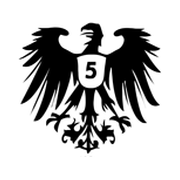
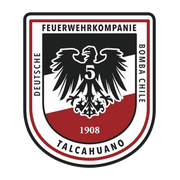
Ícono del sitio: el escudo de la Quinta en vez del águila
favicon.ico (16, 32 y 48 px), icono-192.png para Google y icono-180.png para el
celular salen ahora del escudo. El ícono del águila queda en herramientas/recursos.

Claude-Session: https://claude.ai/code/session_01Hu7YEUVhKE7yvRYdWmftyZ

diff --git a/contacto/index.html b/contacto/index.html
@@ -19,7 +19,8 @@
 <meta name="twitter:card" content="summary_large_image">
 <script type="application/ld+json">{"@context":"https://schema.org","@id":"https://funfte.cl/#organizacion","@type":"FireStation","address":{"@type":"PostalAddress","addressCountry":"CL","addressLocality":"Talcahuano","addressRegion":"Región del Biobío","streetAddress":"Río Maule 5383, Villa Independencia"},"alternateName":["Bomba Chile","Fünfte Deutsche Feuerwehrkompanie Talcahuano"],"description":"Sitio oficial de la Quinta Compañía de Bomberos «Bomba Chile» de Talcahuano, fundada el 29 de enero de 1908. Especialidad en agua y rescate integral.","email":"correo@funfte.cl","foundingDate":"1908-01-29","geo":{"@type":"GeoCoordinates","latitude":-36.763267,"longitude":-73.092603},"image":"https://funfte.cl/assets/img/2011-12-DSC0103-1030x688.jpg","logo":"https://funfte.cl/assets/img/escudo-quinta.png","memberOf":{"@type":"Organization","name":"Confederación de Compañías Chileno-Alemanas de Bomberos","url":"https://funfte.cl/confederacion/"},"name":"Quinta Compañía de Bomberos de Talcahuano","parentOrganization":{"@type":"Organization","name":"Cuerpo de Bomberos de Talcahuano","url":"https://cbt.cl"},"sameAs":["https://www.instagram.com/funftetalcahuano/","https://www.facebook.com/funfte"],"url":"https://funfte.cl/"}</script>
 <script type="application/ld+json">{"@context":"https://schema.org","@type":"BreadcrumbList","itemListElement":[{"@type":"ListItem","item":"https://funfte.cl/","name":"Inicio","position":1},{"@type":"ListItem","item":"https://funfte.cl/contacto/","name":"Contacto","position":2}]}</script>
-<link rel="icon" href="../favicon.ico?v=0360143b">
+<link rel="icon" href="../favicon.ico?v=ced1385c">
+<link rel="icon" type="image/png" sizes="192x192" href="../assets/img/icono-192.png">
 <link rel="apple-touch-icon" href="../assets/img/icono-180.png">
 <link rel="stylesheet" href="../assets/css/estilos.css?v=2dd51635">
 <script src="../assets/js/menu.js?v=33dc8f27" defer></script>

diff --git a/index.html b/index.html
@@ -19,7 +19,8 @@
 <meta name="twitter:card" content="summary_large_image">
 <script type="application/ld+json">{"@context":"https://schema.org","@id":"https://funfte.cl/#organizacion","@type":"FireStation","address":{"@type":"PostalAddress","addressCountry":"CL","addressLocality":"Talcahuano","addressRegion":"Región del Biobío","streetAddress":"Río Maule 5383, Villa Independencia"},"alternateName":["Bomba Chile","Fünfte Deutsche Feuerwehrkompanie Talcahuano"],"description":"Sitio oficial de la Quinta Compañía de Bomberos «Bomba Chile» de Talcahuano, fundada el 29 de enero de 1908. Especialidad en agua y rescate integral.","email":"correo@funfte.cl","foundingDate":"1908-01-29","geo":{"@type":"GeoCoordinates","latitude":-36.763267,"longitude":-73.092603},"image":"https://funfte.cl/assets/img/2011-12-DSC0103-1030x688.jpg","logo":"https://funfte.cl/assets/img/escudo-quinta.png","memberOf":{"@type":"Organization","name":"Confederación de Compañías Chileno-Alemanas de Bomberos","url":"https://funfte.cl/confederacion/"},"name":"Quinta Compañía de Bomberos de Talcahuano","parentOrganization":{"@type":"Organization","name":"Cuerpo de Bomberos de Talcahuano","url":"https://cbt.cl"},"sameAs":["https://www.instagram.com/funftetalcahuano/","https://www.facebook.com/funfte"],"url":"https://funfte.cl/"}</script>
 <script type="application/ld+json">{"@context":"https://schema.org","@type":"WebSite","inLanguage":"es-CL","name":"Quinta Compañía de Bomberos de Talcahuano","publisher":{"@id":"https://funfte.cl/#organizacion"},"url":"https://funfte.cl/"}</script>
-<link rel="icon" href="favicon.ico?v=0360143b">
+<link rel="icon" href="favicon.ico?v=ced1385c">
+<link rel="icon" type="image/png" sizes="192x192" href="assets/img/icono-192.png">
 <link rel="apple-touch-icon" href="assets/img/icono-180.png">
 <link rel="stylesheet" href="assets/css/estilos.css?v=2dd51635">
 <script src="assets/js/menu.js?v=33dc8f27" defer></script>

diff --git a/material-mayor/usines-beduwe-1911/index.html b/material-mayor/usines-beduwe-1911/index.html
@@ -18,7 +18,8 @@
 <meta property="og:image:alt" content="Bomba a vapor Usines Beduwé «Bomba Chile», 1911 | Quinta Compañía de Bomberos de Talcahuano">
 <meta name="twitter:card" content="summary_large_image">
 <script type="application/ld+json">{"@context":"https://schema.org","@type":"BreadcrumbList","itemListElement":[{"@type":"ListItem","item":"https://funfte.cl/","name":"Inicio","position":1},{"@type":"ListItem","item":"https://funfte.cl/la-quinta/","name":"La Quinta","position":2},{"@type":"ListItem","item":"https://funfte.cl/material-mayor/","name":"Material Mayor","position":3},{"@type":"ListItem","item":"https://funfte.cl/material-mayor/usines-beduwe-1911/","name":"Bomba a vapor Usines Beduwé «Bomba Chile», 1911","position":4}]}</script>
-<link rel="icon" href="../../favicon.ico?v=0360143b">
+<link rel="icon" href="../../favicon.ico?v=ced1385c">
+<link rel="icon" type="image/png" sizes="192x192" href="../../assets/img/icono-192.png">
 <link rel="apple-touch-icon" href="../../assets/img/icono-180.png">
 <link rel="stylesheet" href="../../assets/css/estilos.css?v=2dd51635">
 <script src="../../assets/js/menu.js?v=33dc8f27" defer></script>

diff --git a/material-mayor/renault-camiva-b-110-1994/index.html b/material-mayor/renault-camiva-b-110-1994/index.html
@@ -18,7 +18,8 @@
 <meta property="og:image:alt" content="Renault Camiva B-110 «Lustrín», 1994 | Quinta Compañía de Bomberos de Talcahuano">
 <meta name="twitter:card" content="summary_large_image">
 <script type="application/ld+json">{"@context":"https://schema.org","@type":"BreadcrumbList","itemListElement":[{"@type":"ListItem","item":"https://funfte.cl/","name":"Inicio","position":1},{"@type":"ListItem","item":"https://funfte.cl/la-quinta/","name":"La Quinta","position":2},{"@type":"ListItem","item":"https://funfte.cl/material-mayor/","name":"Material Mayor","position":3},{"@type":"ListItem","item":"https://funfte.cl/material-mayor/renault-camiva-b-110-1994/","name":"Renault Camiva B-110 «Lustrín», 1994","position":4}]}</script>
-<link rel="icon" href="../../favicon.ico?v=0360143b">
+<link rel="icon" href="../../favicon.ico?v=ced1385c">
+<link rel="icon" type="image/png" sizes="192x192" href="../../assets/img/icono-192.png">
 <link rel="apple-touch-icon" href="../../assets/img/icono-180.png">
 <link rel="stylesheet" href="../../assets/css/estilos.css?v=2dd51635">
 <script src="../../assets/js/menu.js?v=33dc8f27" defer></script>

diff --git a/material-mayor/renault-camiva-s-150-1999/index.html b/material-mayor/renault-camiva-s-150-1999/index.html
@@ -18,7 +18,8 @@
 <meta property="og:image:alt" content="Renault Camiva S-150 «El Guayo», 1999 | Quinta Compañía de Bomberos de Talcahuano">
 <meta name="twitter:card" content="summary_large_image">
 <script type="application/ld+json">{"@context":"https://schema.org","@type":"BreadcrumbList","itemListElement":[{"@type":"ListItem","item":"https://funfte.cl/","name":"Inicio","position":1},{"@type":"ListItem","item":"https://funfte.cl/la-quinta/","name":"La Quinta","position":2},{"@type":"ListItem","item":"https://funfte.cl/material-mayor/","name":"Material Mayor","position":3},{"@type":"ListItem","item":"https://funfte.cl/material-mayor/renault-camiva-s-150-1999/","name":"Renault Camiva S-150 «El Guayo», 1999","position":4}]}</script>
-<link rel="icon" href="../../favicon.ico?v=0360143b">
+<link rel="icon" href="../../favicon.ico?v=ced1385c">
+<link rel="icon" type="image/png" sizes="192x192" href="../../assets/img/icono-192.png">
 <link rel="apple-touch-icon" href="../../assets/img/icono-180.png">
 <link rel="stylesheet" href="../../assets/css/estilos.css?v=2dd51635">
 <script src="../../assets/js/menu.js?v=33dc8f27" defer></script>

diff --git a/material-mayor/magirus-deutz-1954/index.html b/material-mayor/magirus-deutz-1954/index.html
@@ -18,7 +18,8 @@
 <meta property="og:image:alt" content="Magirus Deutz con escalera mecánica, 1954 | Quinta Compañía de Bomberos de Talcahuano">
 <meta name="twitter:card" content="summary_large_image">
 <script type="application/ld+json">{"@context":"https://schema.org","@type":"BreadcrumbList","itemListElement":[{"@type":"ListItem","item":"https://funfte.cl/","name":"Inicio","position":1},{"@type":"ListItem","item":"https://funfte.cl/la-quinta/","name":"La Quinta","position":2},{"@type":"ListItem","item":"https://funfte.cl/material-mayor/","name":"Material Mayor","position":3},{"@type":"ListItem","item":"https://funfte.cl/material-mayor/magirus-deutz-1954/","name":"Magirus Deutz con escalera mecánica, 1954","position":4}]}</script>
-<link rel="icon" href="../../favicon.ico?v=0360143b">
+<link rel="icon" href="../../favicon.ico?v=ced1385c">
+<link rel="icon" type="image/png" sizes="192x192" href="../../assets/img/icono-192.png">
 <link rel="apple-touch-icon" href="../../assets/img/icono-180.png">
 <link rel="stylesheet" href="../../assets/css/estilos.css?v=2dd51635">
 <script src="../../assets/js/menu.js?v=33dc8f27" defer></script>

diff --git a/material-mayor/renault-camiva-s-170-1990/index.html b/material-mayor/renault-camiva-s-170-1990/index.html
@@ -18,7 +18,8 @@
 <meta property="og:image:alt" content="Renault Camiva S-170 «Panzer», 1990 | Quinta Compañía de Bomberos de Talcahuano">
 <meta name="twitter:card" content="summary_large_image">
 <script type="application/ld+json">{"@context":"https://schema.org","@type":"BreadcrumbList","itemListElement":[{"@type":"ListItem","item":"https://funfte.cl/","name":"Inicio","position":1},{"@type":"ListItem","item":"https://funfte.cl/la-quinta/","name":"La Quinta","position":2},{"@type":"ListItem","item":"https://funfte.cl/material-mayor/","name":"Material Mayor","position":3},{"@type":"ListItem","item":"https://funfte.cl/material-mayor/renault-camiva-s-170-1990/","name":"Renault Camiva S-170 «Panzer», 1990","position":4}]}</script>
-<link rel="icon" href="../../favicon.ico?v=0360143b">
+<link rel="icon" href="../../favicon.ico?v=ced1385c">
+<link rel="icon" type="image/png" sizes="192x192" href="../../assets/img/icono-192.png">
 <link rel="apple-touch-icon" href="../../assets/img/icono-180.png">
 <link rel="stylesheet" href="../../assets/css/estilos.css?v=2dd51635">
 <script src="../../assets/js/menu.js?v=33dc8f27" defer></script>

diff --git a/material-mayor/berliet-camiva-1973/index.html b/material-mayor/berliet-camiva-1973/index.html
@@ -18,7 +18,8 @@
 <meta property="og:image:alt" content="Berliet-Camiva «Lili Marlen», 1973 | Quinta Compañía de Bomberos de Talcahuano">
 <meta name="twitter:card" content="summary_large_image">
 <script type="application/ld+json">{"@context":"https://schema.org","@type":"BreadcrumbList","itemListElement":[{"@type":"ListItem","item":"https://funfte.cl/","name":"Inicio","position":1},{"@type":"ListItem","item":"https://funfte.cl/la-quinta/","name":"La Quinta","position":2},{"@type":"ListItem","item":"https://funfte.cl/material-mayor/","name":"Material Mayor","position":3},{"@type":"ListItem","item":"https://funfte.cl/material-mayor/berliet-camiva-1973/","name":"Berliet-Camiva «Lili Marlen», 1973","position":4}]}</script>
-<link rel="icon" href="../../favicon.ico?v=0360143b">
+<link rel="icon" href="../../favicon.ico?v=ced1385c">
+<link rel="icon" type="image/png" sizes="192x192" href="../../assets/img/icono-192.png">
 <link rel="apple-touch-icon" href="../../assets/img/icono-180.png">
 <link rel="stylesheet" href="../../assets/css/estilos.css?v=2dd51635">
 <script src="../../assets/js/menu.js?v=33dc8f27" defer></script>

diff --git a/material-mayor/hansa-lloyd-1927/index.html b/material-mayor/hansa-lloyd-1927/index.html
@@ -18,7 +18,8 @@
 <meta property="og:image:alt" content="Autobomba Hansa Lloyd, 1927 | Quinta Compañía de Bomberos de Talcahuano">
 <meta name="twitter:card" content="summary_large_image">
 <script type="application/ld+json">{"@context":"https://schema.org","@type":"BreadcrumbList","itemListElement":[{"@type":"ListItem","item":"https://funfte.cl/","name":"Inicio","position":1},{"@type":"ListItem","item":"https://funfte.cl/la-quinta/","name":"La Quinta","position":2},{"@type":"ListItem","item":"https://funfte.cl/material-mayor/","name":"Material Mayor","position":3},{"@type":"ListItem","item":"https://funfte.cl/material-mayor/hansa-lloyd-1927/","name":"Autobomba Hansa Lloyd, 1927","position":4}]}</script>
-<link rel="icon" href="../../favicon.ico?v=0360143b">
+<link rel="icon" href="../../favicon.ico?v=ced1385c">
+<link rel="icon" type="image/png" sizes="192x192" href="../../assets/img/icono-192.png">
 <link rel="apple-touch-icon" href="../../assets/img/icono-180.png">
 <link rel="stylesheet" href="../../assets/css/estilos.css?v=2dd51635">
 <script src="../../assets/js/menu.js?v=33dc8f27" defer></script>

diff --git a/material-mayor/harbor-28/index.html b/material-mayor/harbor-28/index.html
@@ -18,7 +18,8 @@
 <meta property="og:image:alt" content="Unidad Mauricio II / Harbor 28 | Quinta Compañía de Bomberos de Talcahuano">
 <meta name="twitter:card" content="summary_large_image">
 <script type="application/ld+json">{"@context":"https://schema.org","@type":"BreadcrumbList","itemListElement":[{"@type":"ListItem","item":"https://funfte.cl/","name":"Inicio","position":1},{"@type":"ListItem","item":"https://funfte.cl/la-quinta/","name":"La Quinta","position":2},{"@type":"ListItem","item":"https://funfte.cl/material-mayor/","name":"Material Mayor","position":3},{"@type":"ListItem","item":"https://funfte.cl/material-mayor/harbor-28/","name":"Unidad Mauricio II / Harbor 28","position":4}]}</script>
-<link rel="icon" href="../../favicon.ico?v=0360143b">
+<link rel="icon" href="../../favicon.ico?v=ced1385c">
+<link rel="icon" type="image/png" sizes="192x192" href="../../assets/img/icono-192.png">
 <link rel="apple-touch-icon" href="../../assets/img/icono-180.png">
 <link rel="stylesheet" href="../../assets/css/estilos.css?v=2dd51635">
 <script src="../../assets/js/menu.js?v=33dc8f27" defer></script>

diff --git a/material-mayor/gallo-1908/index.html b/material-mayor/gallo-1908/index.html
@@ -18,7 +18,8 @@
 <meta property="og:image:alt" content="Gallo porta mangueras, 1908 | Quinta Compañía de Bomberos de Talcahuano">
 <meta name="twitter:card" content="summary_large_image">
 <script type="application/ld+json">{"@context":"https://schema.org","@type":"BreadcrumbList","itemListElement":[{"@type":"ListItem","item":"https://funfte.cl/","name":"Inicio","position":1},{"@type":"ListItem","item":"https://funfte.cl/la-quinta/","name":"La Quinta","position":2},{"@type":"ListItem","item":"https://funfte.cl/material-mayor/","name":"Material Mayor","position":3},{"@type":"ListItem","item":"https://funfte.cl/material-mayor/gallo-1908/","name":"Gallo porta mangueras, 1908","position":4}]}</script>
-<link rel="icon" href="../../favicon.ico?v=0360143b">
+<link rel="icon" href="../../favicon.ico?v=ced1385c">
+<link rel="icon" type="image/png" sizes="192x192" href="../../assets/img/icono-192.png">
 <link rel="apple-touch-icon" href="../../assets/img/icono-180.png">
 <link rel="stylesheet" href="../../assets/css/estilos.css?v=2dd51635">
 <script src="../../assets/js/menu.js?v=33dc8f27" defer></script>

diff --git a/material-mayor/ford-champion-1941/index.html b/material-mayor/ford-champion-1941/index.html
@@ -18,7 +18,8 @@
 <meta property="og:image:alt" content="Autobomba Ford, 1941 | Quinta Compañía de Bomberos de Talcahuano">
 <meta name="twitter:card" content="summary_large_image">
 <script type="application/ld+json">{"@context":"https://schema.org","@type":"BreadcrumbList","itemListElement":[{"@type":"ListItem","item":"https://funfte.cl/","name":"Inicio","position":1},{"@type":"ListItem","item":"https://funfte.cl/la-quinta/","name":"La Quinta","position":2},{"@type":"ListItem","item":"https://funfte.cl/material-mayor/","name":"Material Mayor","position":3},{"@type":"ListItem","item":"https://funfte.cl/material-mayor/ford-champion-1941/","name":"Autobomba Ford, 1941","position":4}]}</script>
-<link rel="icon" href="../../favicon.ico?v=0360143b">
+<link rel="icon" href="../../favicon.ico?v=ced1385c">
+<link rel="icon" type="image/png" sizes="192x192" href="../../assets/img/icono-192.png">
 <link rel="apple-touch-icon" href="../../assets/img/icono-180.png">
 <link rel="stylesheet" href="../../assets/css/estilos.css?v=2dd51635">
 <script src="../../assets/js/menu.js?v=33dc8f27" defer></script>
